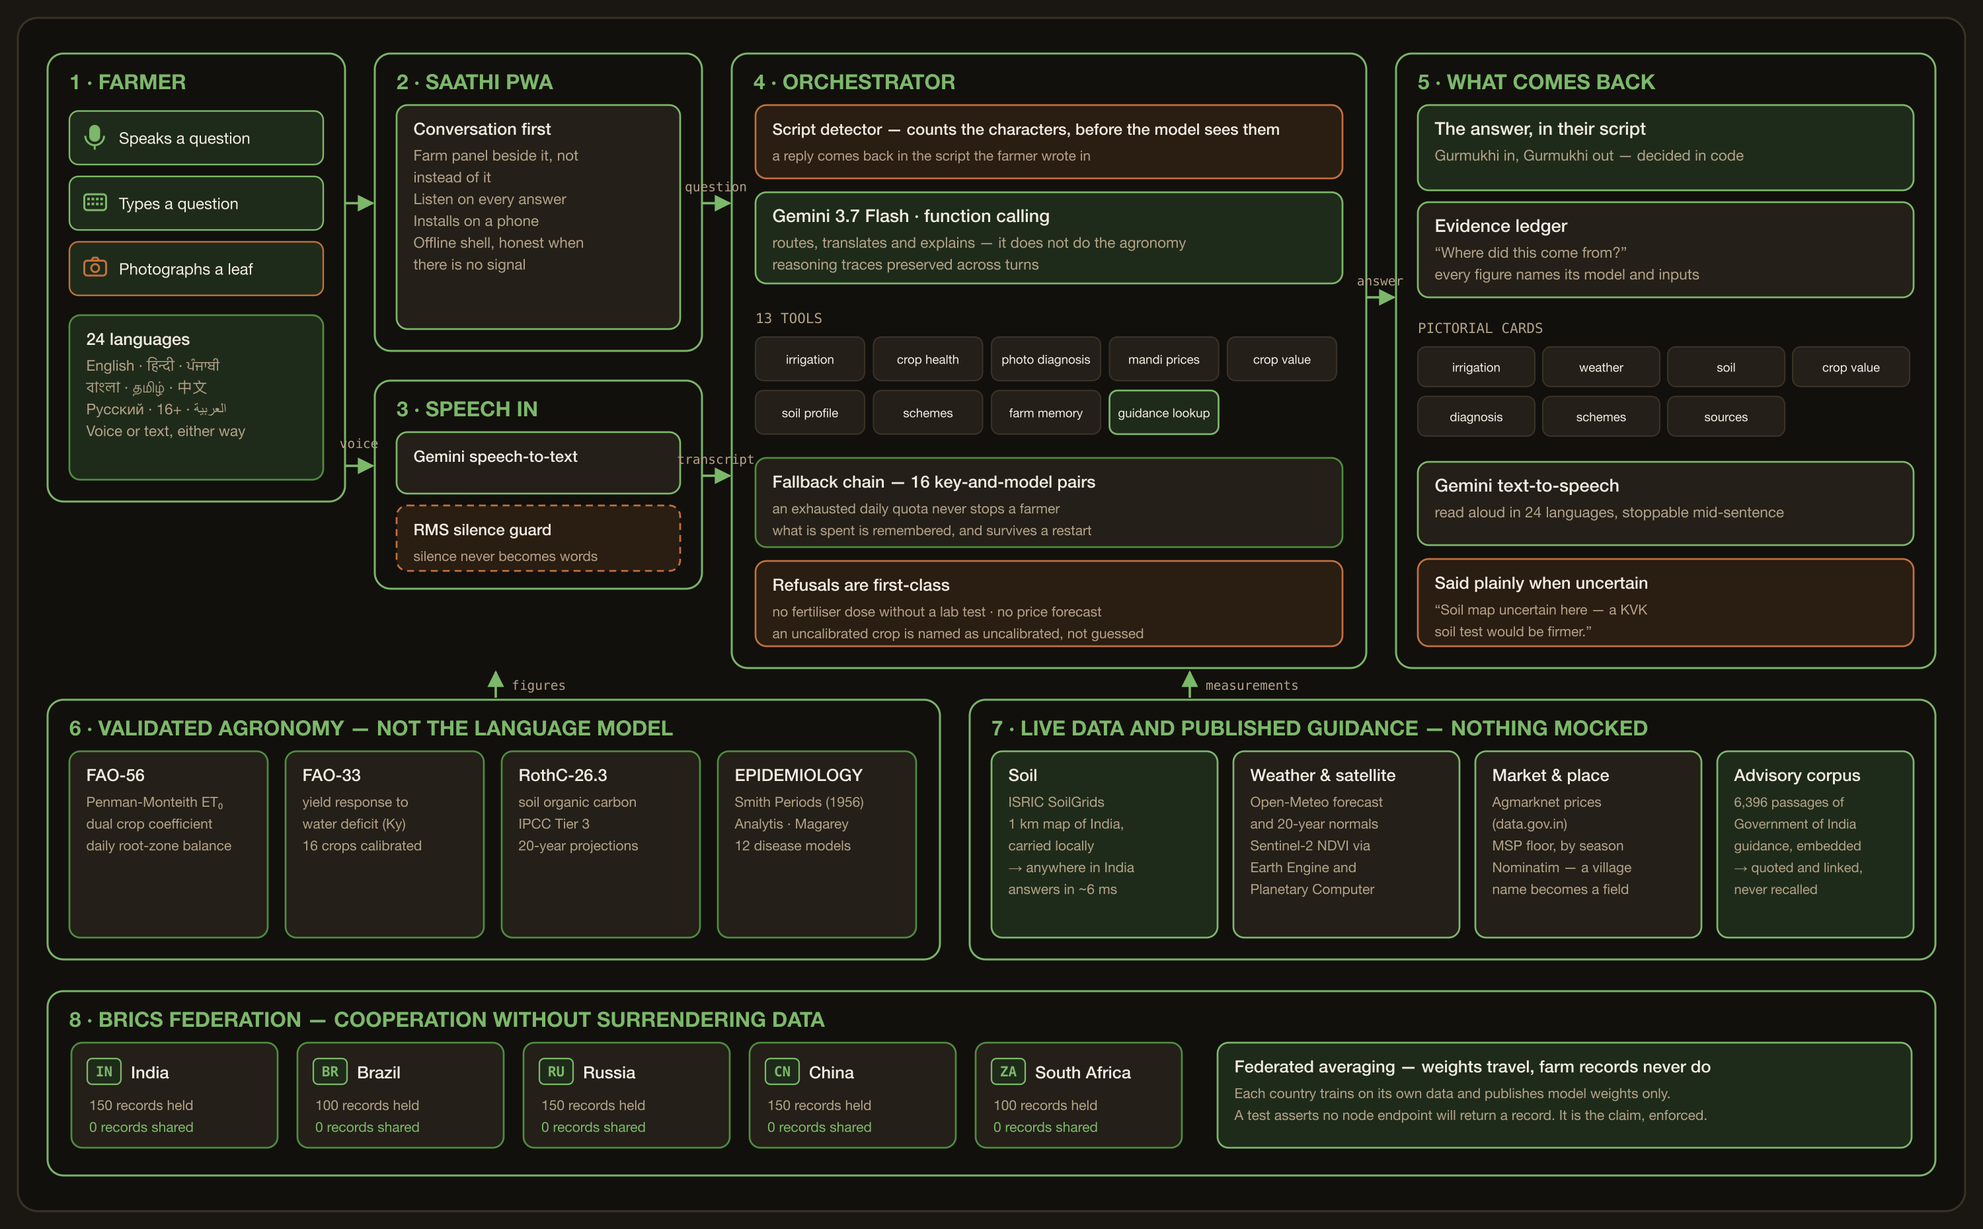
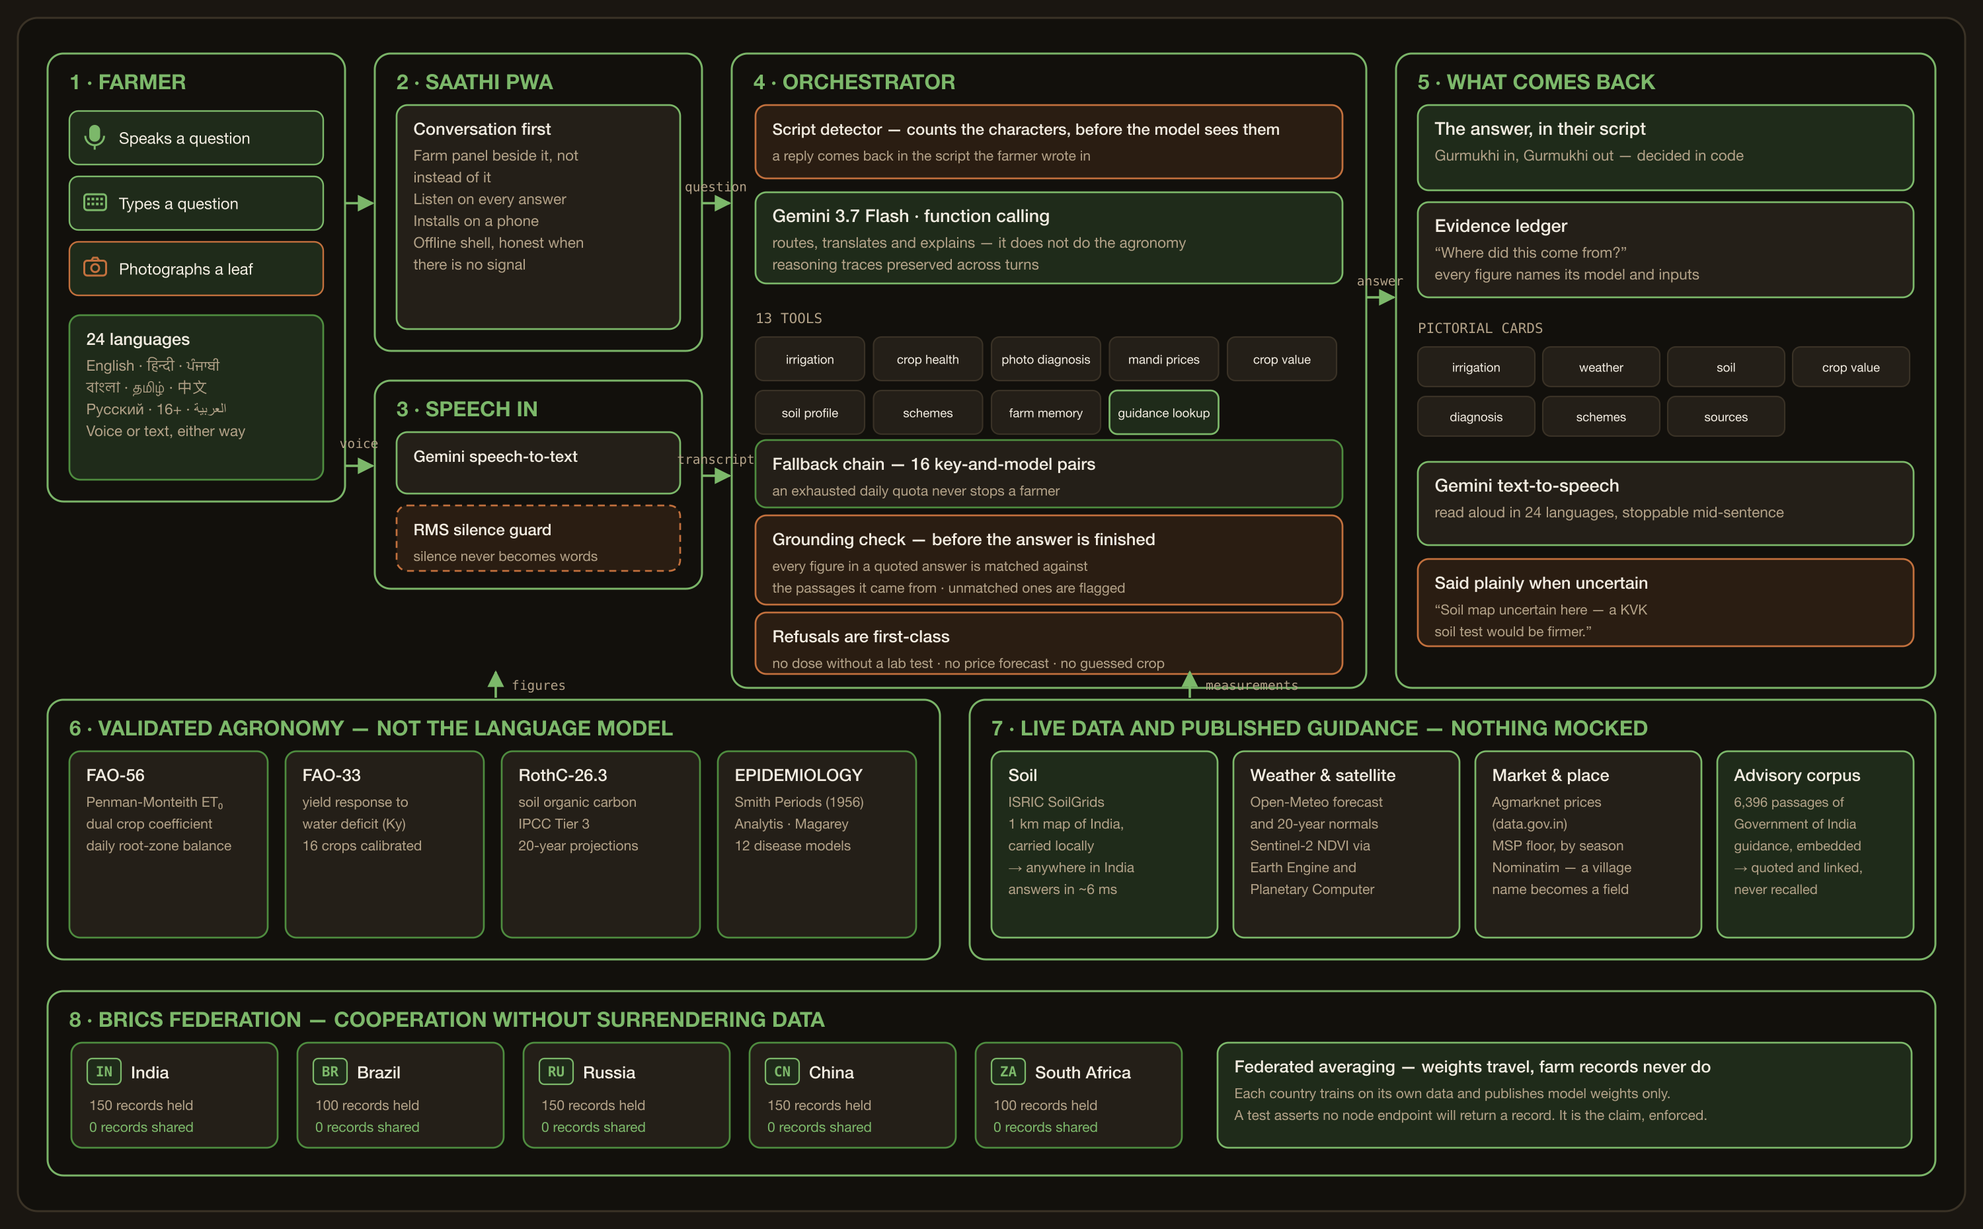
Write down the architecture, including the stage that reads the output back
docs/ARCHITECTURE.md: seven layers with dependencies pointing one way, a
Punjabi question traced from microphone to spoken answer, a table of what
each layer may and may not do, and how a refusal travels outward from
whichever layer produced it.

The section it was written for is the grounding check, which had no place in
either the diagram or the prose. It deserves one, because it is the only
stage that breaks the pattern the rest of the system follows. Every other
guard polices what goes *into* the model -- it never computes, every number
it states comes from a tool. Nothing looked at what came out, and the
buffalo-calf answer showed why that was not enough: real retrieved passages,
a fabricated schedule built on top of them, and a government citation
covering both.

So the diagram now draws it as a stage of the orchestrator rather than
leaving the guidance tool to imply it, and the document explains why an
instruction was not sufficient where a check is: the instruction competes
with everything else the model is doing, afresh on every token, and the
check simply runs afterwards.

Also records the design's limits honestly -- the check is narrow by
construction, verifies quantities and not prose, and is a net under a model
that may still invent rather than proof that it cannot.

Changed region(s): [[0.372, 0.343, 0.961, 0.5613]]

diff --git a/deck/architecture.js b/deck/architecture.js
@@ -143,7 +143,7 @@ card(400, 510, 286, 66, {
 });
 
 /* -------------------------------------------------------- 4 orchestrator */
-section(738, 54, 640, 620, "4", "ORCHESTRATOR");
+section(738, 54, 640, 640, "4", "ORCHESTRATOR");
 card(762, 106, 592, 74, {
   title: "Script detector — counts the characters, before the model sees them",
   lines: ["a reply comes back in the script the farmer wrote in"],
@@ -176,25 +176,31 @@ tools.forEach((t, i) => {
         fill="${TEXT}" text-anchor="middle">${esc(t)}</text>`);
 });
 
-card(762, 462, 592, 90, {
+card(762, 444, 592, 68, {
   title: "Fallback chain — 16 key-and-model pairs",
-  lines: [
-    "an exhausted daily quota never stops a farmer",
-    "what is spent is remembered, and survives a restart",
-  ],
+  lines: ["an exhausted daily quota never stops a farmer"],
   accent: DEEP, titleSize: 17, lineSize: 14,
 });
-card(762, 566, 592, 86, {
-  title: "Refusals are first-class",
+// The stage that reads the model's own output back. Drawn here, between the
+// answer and what leaves the building, because that is where it runs: the
+// rest of the architecture polices what goes *into* the model, and this is
+// the only thing that checks what came out.
+card(762, 520, 592, 90, {
+  title: "Grounding check — before the answer is finished",
   lines: [
-    "no fertiliser dose without a lab test · no price forecast",
-    "an uncalibrated crop is named as uncalibrated, not guessed",
+    "every figure in a quoted answer is matched against",
+    "the passages it came from · unmatched ones are flagged",
   ],
+  accent: WARN, fill: WARNBG, titleSize: 17, lineSize: 14,
+});
+card(762, 618, 592, 62, {
+  title: "Refusals are first-class",
+  lines: ["no dose without a lab test · no price forecast · no guessed crop"],
   accent: WARN, fill: WARNBG, titleSize: 17, lineSize: 14,
 });
 
 /* ------------------------------------------------------------ 7 response */
-section(1408, 54, 544, 620, "5", "WHAT COMES BACK");
+section(1408, 54, 544, 640, "5", "WHAT COMES BACK");
 card(1430, 106, 500, 86, {
   title: "The answer, in their script",
   lines: ["Gurmukhi in, Gurmukhi out — decided in code"],

diff --git a/docs/ARCHITECTURE.md b/docs/ARCHITECTURE.md
@@ -1,0 +1,276 @@
+# How AgriN is put together
+
+One rule shapes every layer:
+
+> **The language model never computes agronomy.**
+
+Gemini routes, translates and explains. Every number a farmer acts on comes
+from a validated model running on real measurements. That is not a stylistic
+preference — an LLM asked for an irrigation depth returns a fluent,
+confident, unfalsifiable number, indistinguishable from a correct one to the
+person standing in the field. Everything below exists so it never has to
+guess, and so that when it does guess anyway, something notices.
+
+---
+
+## 1. The shape of it
+
+Seven layers. Dependencies point **downward only** — the web app knows
+nothing of agronomy, the agronomy package knows nothing of HTTP, and the
+data clients know nothing of the language model.
+
+```
+  ┌─────────────────────────────────────────────────────────────┐
+  │  1  CLIENT        apps/web — React PWA, 66 kB gzipped        │
+  └───────────────┬─────────────────────────────────────────────┘
+                  │  HTTP + Server-Sent Events
+  ┌───────────────▼─────────────────────────────────────────────┐
+  │  2  TRANSPORT     apps/api/main.py — FastAPI, 14 endpoints   │
+  │                   serves the built frontend from the same    │
+  │                   process: one container, one port           │
+  └───────────────┬─────────────────────────────────────────────┘
+                  │
+  ┌───────────────▼─────────────────────────────────────────────┐
+  │  3  ORCHESTRATOR  orchestrator.py — the tool-calling loop,   │
+  │                   and the only place that talks to Gemini    │
+  │                   about a conversation                       │
+  └──┬──────────────────────────────────────┬───────────────────┘
+     │                                      │
+  ┌──▼───────────────────────┐   ┌──────────▼──────────────────┐
+  │  4  TOOL LAYER           │   │  4b  PROVIDER    llm.py      │
+  │  tools.py + schemas.py   │   │  keys, models, cooldowns,    │
+  │  13 tools — the hard     │   │  the 16-pair fallback chain  │
+  │  boundary                │   └──────────────────────────────┘
+  └──┬───────────┬───────────┬──────────────┐
+     │           │           │              │
+  ┌──▼────────┐ ┌▼─────────┐ ┌▼───────────┐ ┌▼──────────────────┐
+  │ 5 AGRONOMY│ │ 5 GEO    │ │ 5 RAG      │ │ 6 STORAGE         │
+  │ pure      │ │ network  │ │ retrieval  │ │ SQLite, 8 tables  │
+  │ functions │ │ clients  │ │ + grounding│ │                   │
+  └───────────┘ └────┬─────┘ └─────┬──────┘ └───────────────────┘
+                     │             │
+              ┌──────▼─────────────▼──────────────────────────┐
+              │  7  OUTSIDE WORLD                              │
+              │  SoilGrids · Open-Meteo · Sentinel-2 ·         │
+              │  Agmarknet · Nominatim · Vikaspedia corpus     │
+              └────────────────────────────────────────────────┘
+
+  ┌────────────────────────────────────────────────────────────┐
+  │  FEDERATION  five country containers, off the request path  │
+  └────────────────────────────────────────────────────────────┘
+```
+
+---
+
+## 2. A question, all the way through
+
+Take: *"ਕਣਕ ਦੀ ਬਿਜਾਈ ਤੋਂ ਪਹਿਲਾਂ ਬੀਜ ਦਾ ਇਲਾਜ ਕੀ ਹੈ?"* — spoken, in Punjabi.
+
+**a. Sound becomes text.** `POST /api/transcribe`. An RMS silence guard runs
+*before* the model: a recording with no speech in it is rejected outright,
+because a transcription model handed silence invents a plausible sentence,
+and a farmer whose recording failed would have had that fabrication answered.
+
+**b. The script is decided in code.** `prompts.dominant_script()` counts
+characters against Unicode ranges and picks the majority. The result is
+stated to the model as a *rule*, not a preference. This exists because
+instructing the model alone lost to conversation history — an English
+question in a Punjabi thread came back in Punjabi. Deciding it outside the
+model took the matter out of the model's judgement.
+
+**c. The loop opens.** `POST /api/chat` returns an SSE stream immediately.
+The orchestrator assembles the system prompt, the conversation history from
+SQLite, the farmer's field, and all 13 tool schemas, then streams from
+Gemini.
+
+**d. The model routes.** It emits a `function_call` for
+`look_up_official_guidance` — seed treatment is written down, not computed,
+and the schema descriptions are what taught it that distinction. The
+orchestrator emits `tool_start` so the UI can say *"Reading the government
+advisory library"* while it works.
+
+**e. The tool runs.** It embeds the question with `gemini-embedding-001`
+(rotating keys so a key cooling down from chat does not also take retrieval
+out), searches 3,968 passages by cosine similarity, applies a **0.62 floor**,
+and returns the passages themselves — plus the list of quantities they
+contain, plus an instruction not to state any other.
+
+If nothing clears the floor it returns an abstention whose text tells the
+model, in words, not to fall back on recall.
+
+**f. Results flow back two ways.** To the browser as a `card` event (the
+sources panel with openable links), and to the model as a `function_response`
+for the next round.
+
+**g. The model answers**, streaming as `text` events the browser renders
+token by token.
+
+**h. The answer is checked.** Before `done`, `_grounding_warning()` runs.
+See §4 — this is the stage that does not exist in most systems of this shape.
+
+**i. It is read aloud.** `POST /api/speak`, in progressively growing chunks
+so the voice does not stall mid-answer.
+
+---
+
+## 3. What each layer may and may not do
+
+| Layer | May | May not |
+|---|---|---|
+| Client | render, play audio, collect input | compute anything agronomic |
+| Transport | validate, persist, stream | decide what to answer |
+| Orchestrator | call tools, enforce bounds, check output | do arithmetic on results |
+| Tool layer | compose domain calls, attach evidence | reach the network directly |
+| `agronomy` | compute | perform I/O of any kind |
+| `geo` | fetch, cache, report provenance | interpret agronomically |
+| `rag` | retrieve, verify grounding | generate text |
+
+The prohibitions matter more than the permissions. `agronomy` has no network
+imports at all, which is why its ~250 tests run offline and why a reviewer
+can check the FAO-56 implementation against the paper without a key.
+
+---
+
+## 4. The grounding check
+
+Until retrieval was added, the architecture policed **inputs**: the model
+never computes, and every number it states comes from a tool result. Nothing
+inspected what the model actually wrote.
+
+Retrieval broke that assumption, in a way that is worth stating plainly
+because it is the most instructive failure in this project.
+
+Asked for a deworming schedule for a buffalo calf, the assistant retrieved
+**genuine** ICAR passages giving Albendazole at 10 mg/kg — and then wrote
+back a schedule of day 14, day 35 and day 56, monthly until six months, plus
+a second drug at a dose. None of it appeared in any passage. It told the
+farmer the government advisory said so.
+
+Retrieval had not removed the invention. It had lent it a citation, which is
+worse: the citation is what makes an answer look checked. Someone can dose
+an animal on that.
+
+Two rounds of prompt-writing did not stop it, and there is a reason to
+expect that. An instruction competes with everything else the model is doing
+— be helpful, be complete, sound like it knows — and it competes afresh on
+every token. A check does not compete. It runs after the answer exists.
+
+So the orchestrator now closes a turn like this:
+
+```
+model stops emitting calls
+        │
+        ▼
+  did this turn quote published guidance?
+        │
+        ├── no  ──────────────────────────────►  "done"
+        │        (a computed answer carries its own provenance;
+        │         its numbers came from the models, not recall)
+        │
+        └── yes ──►  rag.grounding.unsupported_quantities(
+                         answer, state.quoted_passages)
+                          │
+                          ├── empty ──────────►  "done"
+                          │
+                          └── anything ───────►  append warning,
+                                                 emit "grounding",
+                                                 then "done"
+```
+
+The comparison is **forgiving about form and strict about value**.
+`10mg/kg`, `10 mg / kg` and `10 mg per kg` are one quantity; 7.5 and 10 are
+two. Ordinals (`14th day`), spelled-out units (`milligrams per kilogram`) and
+ranges (`7.5 to 10 mg/kg`) are all normalised — each of those was added
+because the real fabricated answer slipped past an earlier version.
+
+It is deliberately narrow. Prose cannot be verified this way: paraphrase is
+legitimate, and "spray again after a fortnight" for a source saying "14 days"
+is translation, not invention — so fortnights are normalised rather than
+flagged. Quantities are different. They are what a farmer acts on, they are
+what an invented answer gets wrong, and they are comparable without
+understanding the sentence around them.
+
+Crying wolf is how a check like this gets switched off, so a clean answer
+must stay clean. That is tested both ways.
+
+The warning is **appended, not substituted**. By the time it runs the text
+has streamed; and more importantly most such an answer is usually correct —
+the Albendazole dose was real, only the schedule around it was not.
+Withholding everything trades one harm for another. Naming who to confirm
+with is what a careful person would do.
+
+**A net, not a cure.** On that question the assistant now refuses outright,
+so the check stays silent. It exists for the next question nobody tested.
+
+---
+
+## 5. How a failure travels
+
+The same discipline appears at every layer, which is what makes the system
+coherent rather than merely layered:
+
+| Where | What it refuses |
+|---|---|
+| Microphone | silence never becomes words |
+| Soil client | a masked cell is "no data", not a nearby guess |
+| Water balance | an uncalibrated crop is named as uncalibrated |
+| Diagnosis | a photo that cannot support a verdict is declined |
+| Prices | no forecast, ever — today's rate and the MSP floor only |
+| Retrieval | below 0.62, nothing is quoted |
+| **Output** | **a figure not in the source raises a warning** |
+
+A tool that cannot answer returns `abstain_reason`, the model is instructed
+to pass it on verbatim rather than paper over it, and the UI renders it. The
+failure reaches the farmer as a sentence they can act on — *"the soil map is
+uncertain here, a KVK soil test would be firmer"* — rather than as a blank
+screen or a confident wrong number.
+
+---
+
+## 6. Cross-cutting machinery
+
+**Provider layer (`llm.py`).** Three API keys × several models = 16
+`(key, model)` pairs tried in order. Cooldowns are persisted to disk with
+absolute expiry, so an exhausted daily quota survives a restart instead of
+being rediscovered request by request. Generation and embedding are metered
+*differently* — 20/day/model/key versus 1,000/day/key — which is why the
+advisory corpus is built by a resumable batch script over several days and
+never at runtime.
+
+**Caching.** `geo/cache.py` writes to `AGRIN_CACHE_DIR`. The India soil map
+is a stronger form of the same idea: built once by
+`scripts/build_india_soil.py`, baked into the image at `/app/soil`, turning a
+26–115 second network call into a ~6 ms disk read. The advisory index at
+`/app/advisory` follows exactly that pattern — same reasoning, same shape.
+
+**Language.** 24 languages, pre-translated into
+`apps/web/public/i18n/<lang>.json` at build time by
+`scripts/build_ui_translations.py`. Doing it ahead of time means choosing a
+language is instant and spends no quota; doing it lazily left a first
+Punjabi visit half in English for minutes.
+
+**Federation.** Five country containers, entirely off the request path.
+Nodes publish 209 model parameters per round and zero field records —
+enforced by tests that pin the route set exactly and assert that payload size
+does not vary with dataset size, since a response that grows with record
+count is carrying records whatever it is named.
+
+---
+
+## 7. Where the numbers come from
+
+| Answer | Traces to |
+|---|---|
+| Irrigation depth and timing | FAO-56 daily root-zone water balance |
+| Yield and what it is worth | FAO-33 Ky on the season's actual water stress |
+| Soil carbon under a practice | RothC-26.3, IPCC Tier 3 |
+| Disease pressure | Smith Periods · Analytis · Magarey |
+| Crop health verdict | Sentinel-2 NDVI, Carlson & Ripley canopy scaling |
+| Soil properties | ISRIC SoilGrids, 1 km, carried locally |
+| Weather | Open-Meteo forecast and ERA5 reanalysis |
+| Today's price, the MSP floor | Agmarknet; CACP, verified against PIB releases |
+| Variety, seed rate, spacing, treatment | quoted from Vikaspedia, with the link |
+| Anything else | the model's own words, and no citation attached |
+
+The last two rows are the distinction the whole system turns on: the
+second-to-last may carry a source, and the last may not.

diff --git a/README.md b/README.md
@@ -9,6 +9,11 @@ satellite, soil, weather and market data.
 
 ---
 
+Full write-up: **[docs/ARCHITECTURE.md](docs/ARCHITECTURE.md)** — every layer,
+what crosses each boundary, and one question traced end to end.
+
+---
+
 ## The one design decision everything follows from
 
 **The language model never computes agronomy.**
